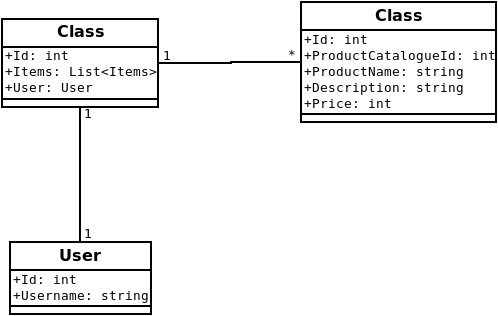
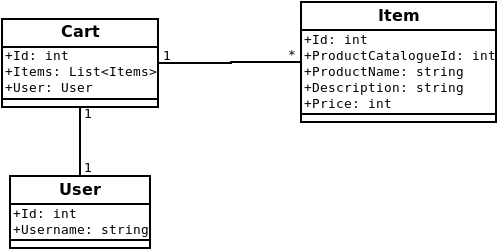
wip: draft

Changed region(s): [[0.0, 0.0, 1.0, 0.504], [0.0, 0.644, 0.3012, 1.0]]

diff --git a/Controllers/ShoppingCartController.cs b/Controllers/ShoppingCartController.cs
@@ -68,59 +68,54 @@ public class ShoppingCartController
     }
 
 
-    
     /// <summary>
-    /// Add one item to a user's shopping cart
-    /// <param name="userId">ID of the user</param>
+    /// Add a list of Item to the cart
     /// </summary>
+    /// <param name="cartItem">Represent a cart and an item</param>
     /// <returns>
-    /// The JSON representation of the created Cart object
+    /// The JSON representation of the created Item object
     /// </returns>
-    [HttpPost("{userId:int}/item")]
-    public ActionResult AddItem(int userId)
+    [HttpPost("item")]
+    public ActionResult AddItems(CartItem cartItem)
     {
 
-	// TODO: real item in the body of the request
-	Item shoppingCartItem = new Item("testName", 25);
+	//TODO: make the controller async
 
-	// Get the user's ShoppingCart
-	var userCart = _context.Carts
-	    .ToList<Cart>()
-	    .SingleOrDefault(cart => cart.UserId == userId);
+	Dictionary<string, object> res = new Dictionary<string, object>();
 
-	String operationStatus;
-
-	// Check if set is not empty
-	if(userCart == null)
+	// Get the cart
+	var cart = _context.Carts.ToList().SingleOrDefault(cart => cart.Id == cartItem.cartId);
+	if (cart == null)
 	{
-	    logger.Debug("ShoppingCartController.AddItem", $"Cart for userId {userId} is empty");
-	    operationStatus = "create";
-	    // Create a new cart
-	    logger.Debug("ShoppingCartController.AddItem", "Creating the Cart ...");
-	    userCart = new Cart(){ UserId = userId };
-	    _context.Add(userCart);
-	}
-	else
-	{
-	    operationStatus = "update";
-	    logger.Debug("ShoppingCartController.AddItem", $"Cart for userId {userId} exists");
-	    logger.Debug("ShoppingCartController.AddItem", "Updating the shopping cart ...");
+	    logger.Error("ShoppingCartController.AddItems", "Cart doesn't exist");
+	    res.Add("operation", "inexistant_cart");
+	    return new JsonResult(res);
 	}
 
-	// // TODO: check if item exists in the database or not
+	// Get the item
+	IEnumerable<Item> items = _context.Items.ToList().Where(item => cartItem.itemsId.Contains(item.Id));
+	if (items == null)
+	{
+	    logger.Error("ShoppingCartController.AddItems", "Item doesn't exist");
+	    res.Add("operation", "inexistant_item");
+	    return new JsonResult(res);
+	}
 
 	logger.Debug("ShoppingCartController.AddItem", "Adding the Item to the cart ...");
-	userCart.Items.Add(shoppingCartItem);
+
+	foreach (Item item in items)
+	{
+	    cart.Items.Add(item);
+	}
 	_context.SaveChanges();
-	logger.Debug("ShoppingCartController.AddItem", "Saving done.");
+	logger.Debug("ShoppingCartController.AddItem", "Update done.");
 
 	// TODO: check if the user exist
 
-	Dictionary<string, object> res = new Dictionary<string, object>();
-	res.Add("items", userCart.Serialize());
+	res.Add("items", cart.Serialize());
 
 	// Set status: Update or Create
-	res.Add("operation", operationStatus);
+	res.Add("operation", "updated");
 
 	return new JsonResult(res);
     }
@@ -145,12 +140,12 @@ public class ShoppingCartController
     }
 
     /// <summary>
-    /// Get all carts of all users.
+    /// Get all carts
     /// </summary>
     /// <returns>
     /// A JSON containing a list of Cart.
     /// </returns>
-    [HttpGet("carts")]
+    [HttpGet("cart")]
     public ActionResult GetCarts()
     {
 	const String unity = "ShoppingCartController.GetCarts";
@@ -162,4 +157,39 @@ public class ShoppingCartController
 	return new JsonResult(res);
     }
 
+
+    /// <summary>
+    /// Add a cart to the database
+    /// </summary>
+    /// <returns>
+    /// The JSON representation of the created Cart object
+    /// </returns>
+    [HttpPost("cart")]
+    public ActionResult AddCart (Cart cart)
+    {
+
+	Dictionary<string, object> res = new Dictionary<string, object>();
+
+	// Get the cart
+	var carts = _context.Carts;
+	if (carts == null)
+	{
+	    logger.Error("ShoppingCartController.AddCart", "Cart is null");
+	    res.Add("operation", "inexistant_cart");
+	    return new JsonResult(res);
+	}
+
+	logger.Debug("ShoppingCartController.AddCart", "Adding the Cart to the database ...");
+
+	carts.Add(cart);
+	_context.SaveChanges();
+	logger.Debug("ShoppingCartController.AddCart", "Update done.");
+
+	res.Add("cart", cart.Serialize());
+
+	// Set status: Update or Create
+	res.Add("operation", "updated");
+
+	return new JsonResult(res);
+    }
 }

diff --git a/Models/CartItem.cs b/Models/CartItem.cs
@@ -1,0 +1,12 @@
+namespace ShoppingCart.Models;
+
+/// <summary>
+/// Represent a Cart and a list of item that is inside that Cart
+/// Usage: for controller that takes both a Cart and an Item as an arguments
+/// </summary>
+public class CartItem {
+
+    public int cartId { get; set; }
+    public IEnumerable<int> itemsId { get; set; }
+
+}

diff --git a/Migrations/20240601165244_InitialCreate.Designer.cs b/Migrations/20240601165244_InitialCreate.Designer.cs
@@ -10,7 +10,7 @@ using ShoppingCart.Models;
 namespace ShoppingCart.Migrations
 {
     [DbContext(typeof(AppDbContext))]
-    [Migration("20240501090509_InitialCreate")]
+    [Migration("20240601165244_InitialCreate")]
     partial class InitialCreate
     {
         /// <inheritdoc />

diff --git a/Models/Item.cs b/Models/Item.cs
@@ -3,6 +3,9 @@ namespace ShoppingCart.Models;
 using System.ComponentModel.DataAnnotations;
 using System.ComponentModel.DataAnnotations.Schema;
 
+/// <summary>
+/// A item inside a cart
+/// </summary>
 [Table("Item")]
 public class Item {
 
